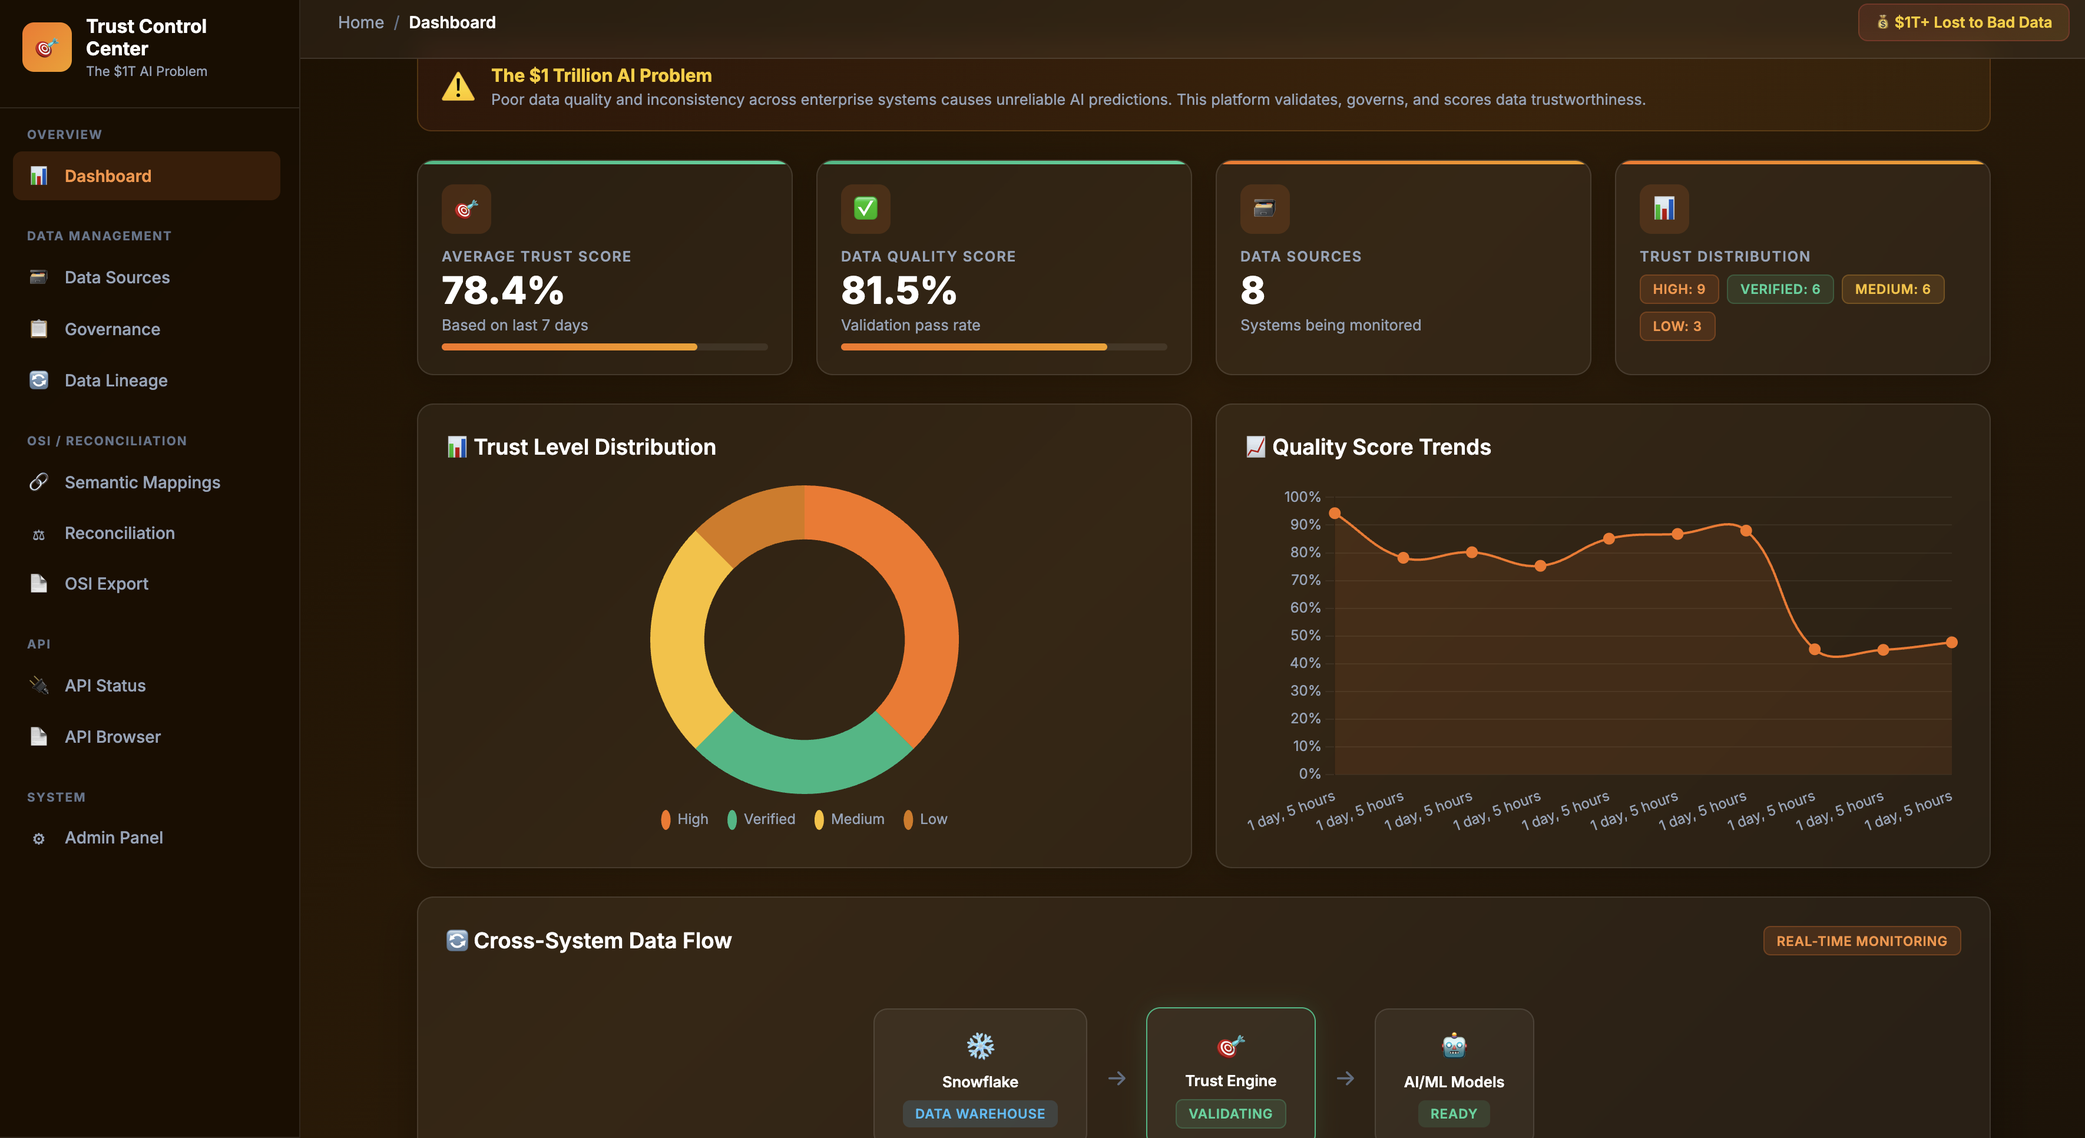
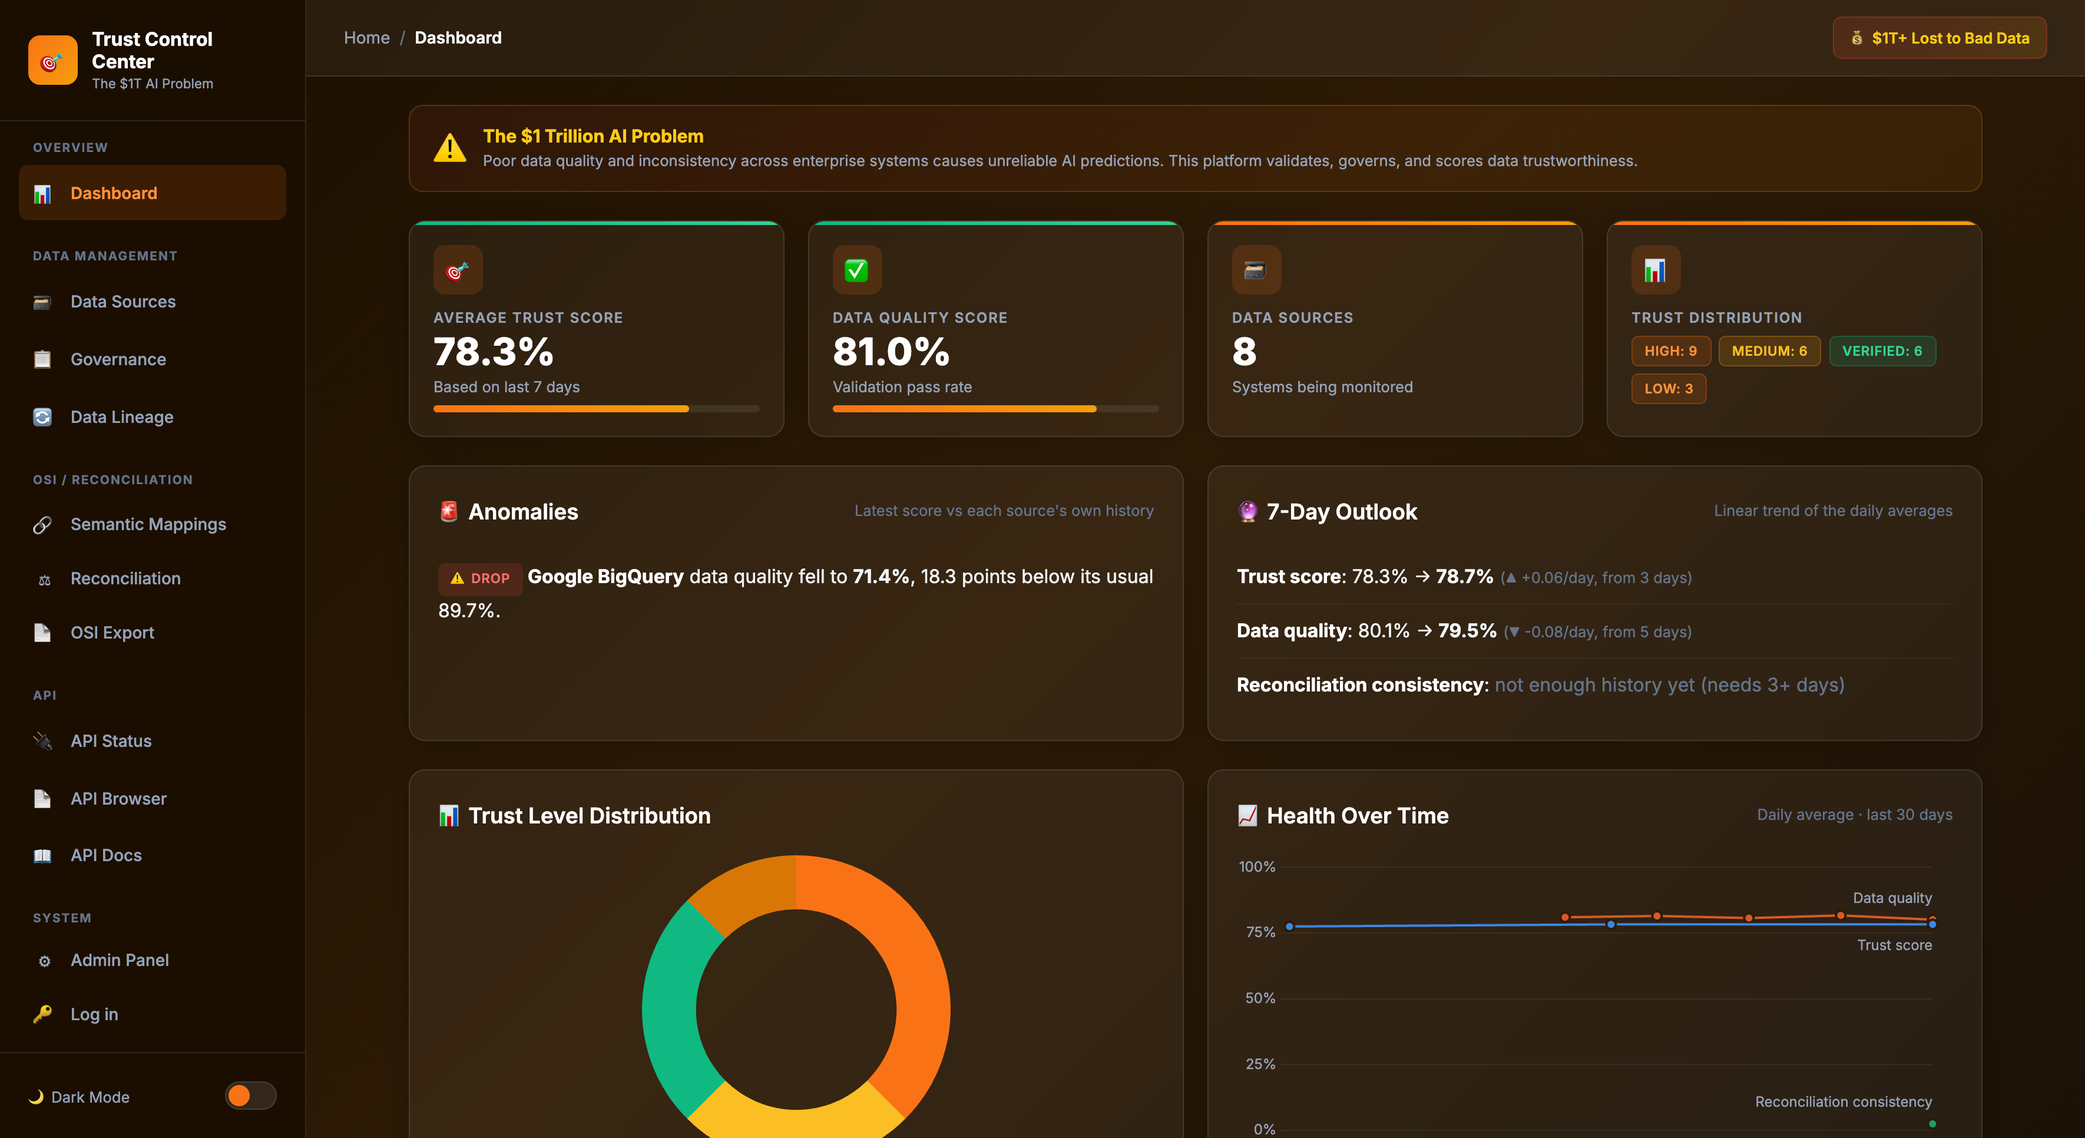
README: complete roadmap, document new features, refresh screenshot
All four phases done; live warehouse/BI connectors moved to Future with
the reason (they need real accounts to test). New sections for anomalies,
alerts, search/export/bulk import, monitoring; env var table; endpoints;
architecture diagram and project structure; new dashboard screenshot.

diff --git a/README.md b/README.md
@@ -82,38 +82,47 @@ flowchart LR
 
 ```mermaid
 flowchart TB
-    subgraph Frontend["Frontend Layer"]
-        TMPL["Django Templates<br/>Glassmorphic Dark/Light UI"]
-        CJS["Chart.js<br/>Interactive Visualizations"]
-        JS["JavaScript<br/>Theme Toggle, Sorting, Drag-Drop"]
+    subgraph Frontend["Frontend"]
+        TMPL["Django Templates<br/>Dark/Light UI, search & filters"]
+        CJS["Chart.js<br/>Health trend, distributions"]
     end
 
-    subgraph Backend["Backend Layer"]
-        DV["Django Views<br/>14 View Functions"]
-        DRF["Django REST Framework<br/>7 ViewSet Endpoints"]
-        RE["Reconciliation Engine<br/>SQL-Aware Formula Comparison (sqlglot)"]
-        TE["Trust Scoring Engine<br/>6-Dimension Analysis"]
-        DQV["Data Quality Validator<br/>CSV Upload and Rule Checks"]
-        OSI_EXP["OSI Export/Import<br/>Vendor-Neutral JSON"]
+    subgraph Backend["Django + DRF (gunicorn)"]
+        DV["Views & REST API<br/>token auth, roles, rate limits"]
+        RE["Reconciliation Engine<br/>SQL-aware diff (sqlglot)"]
+        INS["Insights<br/>anomalies, 7-day outlook"]
+        IMP["Importers<br/>dbt YAML, CSV, OSI"]
+        EXP["Exports<br/>CSV / Excel / Parquet"]
+        MON["/healthz & /metrics"]
     end
 
-    subgraph Data["Data Layer"]
-        DB["SQLite / PostgreSQL"]
-        MOD["7 Django Models"]
+    subgraph Async["Background"]
+        REDIS["Redis<br/>broker + shared cache"]
+        WORKER["Celery worker<br/>reconciliation runs"]
+        ALERT["Alerts<br/>webhook (Slack) / email"]
+    end
+
+    subgraph Data["Data"]
+        DB["PostgreSQL / SQLite"]
+    end
+
+    subgraph Ops["Monitoring (opt-in)"]
+        PROM["Prometheus"] --> GRAF["Grafana dashboard"]
     end
 
     TMPL --> DV
     CJS --> TMPL
-    JS --> TMPL
     DV --> RE
-    DV --> TE
-    DV --> DQV
-    DV --> OSI_EXP
-    DRF --> RE
-    DRF --> OSI_EXP
+    DV --> INS
+    DV --> IMP
+    DV --> EXP
+    DV --> REDIS
+    REDIS --> WORKER
+    WORKER --> RE
+    WORKER --> ALERT
+    RE --> DB
     DV --> DB
-    DRF --> DB
-    MOD --> DB
+    PROM --> MON
 ```
 
 ---
@@ -320,12 +329,34 @@ Ratio metrics are compared as `numerator / denominator`; derived, cumulative and
 - Null detection, type validation, range checks, uniqueness analysis
 - Historical validation tracking per data source
 
+### Anomaly Detection & 7-Day Outlook
+
+- Flags when a source's latest trust or quality score drops well below **its own** recent history (2σ, at least 5 points)
+- Projects each daily health series 7 days ahead from its least-squares trend
+- On the dashboard and at `/api/v1/insights/`
+
+### Alerts
+
+- Webhook (JSON with a Slack-compatible `text` field) and/or email when a validation fails, a score drop is detected, or a reconciliation finds critical divergences
+- Sent after the database commit by the background worker; delivery failures are logged and never break the action that caused them
+
+### Search, Filters, Export & Bulk Import
+
+- Search and filters on every list page (bookmarkable URLs) and `?search=` / `?ordering=` / field filters on every API endpoint
+- Download trust scores, validations, metrics, mappings and reconciliation findings as **CSV, Excel, or Parquet** (`/export/<dataset>.<format>`)
+- Bulk-import semantic mappings from CSV; the columns match the export, so you can export, edit in a spreadsheet, and upload back
+
+### Monitoring
+
+- `/healthz` (database + broker) for load balancers and uptime checks
+- `/metrics` in Prometheus format: request rate, latency, DB queries, plus trust, quality, consistency, and open divergences. Requires a bearer token
+- Optional Prometheus + Grafana stack with a provisioned dashboard (see [Docker](#docker))
+
 ### REST API
 
-- Full CRUD API for all entities via Django REST Framework
-- Browsable API at `/api/v1/`
-- Endpoints: data sources, governance metrics, semantic definitions, reconciliations, lineage, trust scores, validations
-- OSI export/import via API
+- Full CRUD API for all entities via Django REST Framework; Swagger UI at `/api/docs/`
+- Token auth, role-based write permissions, per-client rate limits (120/min anonymous, 600/min logged in)
+- Browsable API at `/api/v1/`; OSI export/import via API
 
 ---
 
@@ -333,12 +364,12 @@ Ratio metrics are compared as `numerator / denominator`; derived, cumulative and
 
 | Page | URL | Description |
 | ---- | --- | ----------- |
-| Dashboard | `/` | Overview with trust scores, 30-day health trend (trust, quality, consistency), reconciliation status, dimension analysis |
+| Dashboard | `/` | Trust and quality scores, anomalies, 7-day outlook, 30-day health trend, reconciliation status |
 | Data Sources | `/sources/` | All monitored systems with trust scores and validation history |
 | Governance | `/governance/` | Define canonical metrics (the single source of truth) |
 | Semantic Mappings | `/semantic/` | Map how metrics are implemented per source system |
 | Reconciliation | `/reconciliation/` | Run cross-source comparison, view divergences |
-| Reconciliation CSV | `/reconciliation/export.csv` | Latest run per metric, one row per divergence |
+| Exports | `/export/<dataset>.<csv\|xlsx\|parquet>` | trust-scores, validations, governance-metrics, semantic-definitions, reconciliation |
 | Data Lineage | `/lineage/` | Track data flows between systems |
 | OSI Export | `/osi/` | Export/import semantic model as vendor-neutral JSON |
 | API Browser | `/api/v1/` | Interactive REST API explorer |
@@ -425,24 +456,28 @@ python manage.py seed_data --flush
 ## Docker
 
 ```bash
-# Build and run
-docker-compose up --build
+# App + PostgreSQL + Redis + Celery worker
+DJANGO_SUPERUSER_USERNAME=admin DJANGO_SUPERUSER_PASSWORD=change-me docker compose up --build
 
-# Or standalone
-docker build -t trust-control-center .
-docker run -p 8000:8000 trust-control-center
+# Optional: add Prometheus (localhost:9090) and Grafana (localhost:3000, admin / $GRAFANA_PASSWORD)
+METRICS_TOKEN=$(openssl rand -hex 24) GRAFANA_PASSWORD=change-me \
+  docker compose -f docker-compose.yml -f docker-compose.monitoring.yml up --build
 ```
 
-`docker-compose` runs the app against **PostgreSQL 17** (data persists in the `pg-data` volume). Standalone `docker run` and local `runserver` use SQLite unless `DATABASE_URL` is set.
+`docker compose` runs **PostgreSQL 17**, **Redis**, the web app (gunicorn) and a **Celery worker**. Without Docker, local `runserver` uses SQLite and runs background tasks inline, so nothing else needs to be installed. Sample data is seeded only when the database is empty.
 
 | Variable | Purpose |
 | -------- | ------- |
 | `DATABASE_URL` | `postgres://user:pass@host:5432/dbname` (add `?sslmode=require` for managed Postgres). Unset = SQLite |
-| `POSTGRES_PASSWORD` | Password for the compose `db` service (default `trust` — change it outside local dev) |
+| `REDIS_URL` | Celery broker and shared cache. Unset = tasks run inline, per-process cache |
 | `DJANGO_SECRET_KEY` | Required for any real deployment |
 | `DJANGO_SUPERUSER_USERNAME` / `DJANGO_SUPERUSER_PASSWORD` | Create an admin login on startup |
-
-Sample data is seeded only when the database is empty, so restarts don't duplicate it.
+| `DJANGO_ALLOWED_HOSTS`, `DJANGO_NUM_PROXIES` | Host names; number of reverse proxies in front (for client IPs in rate limits and lockouts) |
+| `ALERT_WEBHOOK_URL`, `ALERT_EMAILS` | Alert destinations (Slack-compatible webhook; comma-separated emails) |
+| `EMAIL_HOST`, `EMAIL_PORT`, `EMAIL_HOST_USER`, `EMAIL_HOST_PASSWORD`, `DEFAULT_FROM_EMAIL` | SMTP for email alerts. Unset = printed to the console |
+| `API_RATE_ANON`, `API_RATE_USER` | API rate limits (default `120/min`, `600/min`) |
+| `METRICS_TOKEN` | Bearer token for `/metrics`. Unset = endpoint disabled |
+| `POSTGRES_PASSWORD`, `GRAFANA_PASSWORD` | Compose `db` password (default `trust`); Grafana admin password (required for monitoring) |
 
 ---
 
@@ -450,6 +485,8 @@ Sample data is seeded only when the database is empty, so restarts don't duplica
 
 | Endpoint | Methods | Description |
 | -------- | ------- | ----------- |
+| `/healthz` | GET | Database + broker health (200 / 503) |
+| `/metrics` | GET | Prometheus metrics (`Authorization: Bearer $METRICS_TOKEN`) |
 | `/api/` | GET | API health check |
 | `/api/auth/token/` | POST | Exchange username/password for an API token |
 | `/api/schema/` | GET | OpenAPI 3 schema (YAML) |
@@ -458,12 +495,15 @@ Sample data is seeded only when the database is empty, so restarts don't duplica
 | `/api/v1/governance-metrics/` | GET, POST, PUT, DELETE | Governance metric CRUD |
 | `/api/v1/semantic-definitions/` | GET, POST, PUT, DELETE | Semantic definition CRUD |
 | `/api/v1/reconciliations/` | GET | Reconciliation run history |
-| `/api/v1/reconciliations/run/` | POST | Trigger reconciliation |
+| `/api/v1/reconciliations/run/` | POST | Trigger reconciliation (202 + task id when a worker is configured) |
+| `/api/v1/insights/` | GET | Anomalies and 7-day outlook |
 | `/api/v1/lineage/` | GET, POST, PUT, DELETE | Data lineage CRUD |
 | `/api/v1/trust-scores/` | GET | Trust score history |
 | `/api/v1/validations/` | GET | Validation result history |
 | `/api/v1/governance-metrics/osi-export/` | GET | OSI spec export |
 | `/api/v1/governance-metrics/osi-import/` | POST | OSI spec import |
+
+Every list endpoint accepts `?search=`, `?ordering=` and field filters (for example `/api/v1/trust-scores/?trust_level=low&ordering=-overall_score`).
 
 ---
 
@@ -530,66 +570,43 @@ Unit test coverage includes:
 
 ```text
 ./
-├── trustsite/                  # Django project settings
-│   ├── settings.py             # Configuration (DRF, CORS, WhiteNoise, security)
-│   ├── urls.py                 # Root URL configuration
-│   └── wsgi.py
+├── trustsite/                  # Django project: settings, URLs, Celery app
 ├── core/                       # Main application
-│   ├── models.py               # 7 models (DataSource, GovernanceMetric, SemanticDefinition, etc.)
-│   ├── views.py                # 14 view functions
-│   ├── api_views.py            # DRF ViewSets (7 endpoints)
-│   ├── serializers.py          # DRF serializers
-│   ├── urls.py                 # URL routing + DRF router
-│   ├── admin.py                # Django admin configuration
+│   ├── models.py               # DataSource, GovernanceMetric, SemanticDefinition, ReconciliationRun, ...
+│   ├── views.py / api_views.py # Pages and DRF API
+│   ├── tasks.py                # Celery tasks (reconciliation, alert delivery)
+│   ├── alerts.py               # Webhook / email alerts from model signals
+│   ├── exports.py              # CSV / Excel / Parquet downloads
+│   ├── monitoring.py           # /healthz and /metrics
 │   ├── utils/
-│   │   ├── reconciliation.py   # Cross-source reconciliation engine
-│   │   ├── osi_export.py       # OSI-compatible JSON export/import
-│   │   ├── dbt_import.py       # dbt Semantic Layer YAML -> semantic mappings
-│   │   ├── trust_scoring.py    # 6-dimension trust scoring engine
-│   │   ├── data_quality_validator.py  # CSV quality validation
-│   │   └── data_governance.py  # Governance utilities
-│   ├── management/commands/
-│   │   ├── seed_data.py        # Populate realistic sample data
-│   │   ├── calc_trust.py       # Batch trust score calculation
-│   │   ├── validate_data.py    # CLI data validation
-│   │   └── export_governance.py
-│   └── tests/
-│       ├── test_models.py      # Model tests
-│       ├── test_views.py       # View tests
-│       ├── test_api.py         # API endpoint tests
-│       └── test_reconciliation.py  # Reconciliation, OSI, semantic tests
-├── templates/                  # Django templates (glassmorphic dark/light UI)
-│   ├── base.html               # Sidebar layout, theme toggle
-│   ├── dashboard.html          # Main dashboard with Chart.js
-│   ├── data_sources.html       # Source list with trust badges
-│   ├── governance_metrics.html # Metric definitions
-│   ├── semantic_definitions.html # Per-source mappings
-│   ├── reconciliation.html     # Cross-source comparison
-│   ├── lineage.html            # Data flow visualization
-│   └── osi_export.html         # OSI JSON export/import
-├── static/
-│   ├── css/main.css            # CSS with dark/light theme variables
-│   └── js/main.js              # Theme toggle, sortable tables, drag-drop
-├── examples/dbt_project/       # Sample dbt semantic layer for `import_dbt`
-├── Dockerfile                  # Python 3.11-slim with Gunicorn
-├── docker-compose.yml
-├── requirements.txt            # Django, DRF, drf-spectacular, sqlglot, CORS, WhiteNoise, Gunicorn, pandas
+│   │   ├── reconciliation.py   # SQL-aware cross-source comparison
+│   │   ├── insights.py         # Anomaly detection and outlook
+│   │   ├── dbt_import.py       # dbt Semantic Layer YAML -> mappings
+│   │   ├── bulk_import.py      # CSV -> mappings
+│   │   ├── osi_export.py       # OSI JSON export/import
+│   │   └── trust_scoring.py, data_quality_validator.py
+│   ├── management/commands/    # seed_data, import_dbt, calc_trust, validate_data, export_governance
+│   └── tests/                  # Unit and integration tests
+├── templates/, static/         # Dark/light UI
+├── monitoring/                 # Prometheus config, Grafana datasource + dashboard
+├── examples/dbt_project/       # Sample dbt semantic layer
 ├── scripts/e2e.py              # End-to-end checks against the running Docker stack
-├── .github/workflows/ci.yml   # GitHub Actions CI (unit tests on Postgres + SQLite, Docker e2e)
-└── README.md
+├── docker-compose.yml          # Postgres, Redis, web, worker
+├── docker-compose.monitoring.yml  # Optional Prometheus + Grafana
+└── .github/workflows/ci.yml    # Tests on Postgres + SQLite (Python 3.11/3.12), Docker e2e
 ```
 
 ---
 
 ## Tech Stack
 
-- **Backend**: Django 4.2+, Django REST Framework, sqlglot (formula parsing)
-- **Frontend**: Django Templates, Chart.js, CSS Variables (dark/light theming)
-- **Database**: SQLite (dev default), PostgreSQL via `DATABASE_URL` (docker-compose, prod; psycopg 3)
-- **Static Files**: WhiteNoise
-- **CORS**: django-cors-headers
-- **Containerization**: Docker, Gunicorn
-- **CI/CD**: GitHub Actions (Python 3.11/3.12 matrix, tests on Postgres and SQLite, docker-compose end-to-end checks)
+- **Backend**: Django, Django REST Framework, drf-spectacular, django-filter, sqlglot (formula parsing), pandas
+- **Async**: Celery + Redis
+- **Frontend**: Django Templates, Chart.js, CSS variables (dark/light)
+- **Database**: PostgreSQL (psycopg 3) or SQLite
+- **Security**: role-based permissions, token auth, rate limiting, django-axes login lockout
+- **Observability**: django-prometheus, Prometheus, Grafana
+- **Delivery**: Docker, gunicorn, WhiteNoise, GitHub Actions (unit tests on Postgres + SQLite, docker-compose end-to-end)
 
 ---
 
@@ -610,29 +627,30 @@ Learn more: [VentureBeat — The $1 Trillion AI Problem](https://venturebeat.com
 
 ## Roadmap
 
-### Phase 1 — Security & API Polish
-- [x] **Authentication** — Login required for all writes; anonymous users get read-only access (session + token auth for API)
-- [x] **Role-Based Access Control** — Admin / Editor / Viewer roles via Django groups and model permissions, token-based API auth
-- [x] **Swagger/OpenAPI Documentation** — Interactive API docs at `/api/docs/` using `drf-spectacular`, auto-generated schema from serializers
-- [ ] **API Rate Limiting & Throttling** — DRF throttling classes for public and authenticated endpoints
+### Phase 1 — Security & API Polish ✅
+- [x] **Authentication** — Login required for all writes; anonymous users get read-only access
+- [x] **Role-Based Access Control** — Admin / Editor / Viewer via Django groups and model permissions, API tokens
+- [x] **Swagger/OpenAPI Documentation** — `/api/docs/`, generated with drf-spectacular
+- [x] **API Rate Limiting** — Per-client limits for anonymous and logged-in users, plus login lockout (django-axes)
 
-### Phase 2 — Production Infrastructure
-- [x] **PostgreSQL Support** — `DATABASE_URL` config, docker-compose runs Postgres + Django, CI tests on both Postgres and SQLite
-- [ ] **Celery + Redis for Async Tasks** — Background job processing for reconciliation runs, trust score calculations, and bulk operations
-- [ ] **Real-Time Alerts & Notifications** — Webhook and email alerts when trust scores drop, reconciliation detects divergences, or validation fails
+### Phase 2 — Production Infrastructure ✅
+- [x] **PostgreSQL Support** — `DATABASE_URL`; CI tests on Postgres and SQLite
+- [x] **Celery + Redis** — Reconciliation runs and alert delivery in a background worker
+- [x] **Alerts & Notifications** — Webhook (Slack-compatible) and email on failed validations, score drops, critical divergences
 
-### Phase 3 — Analytics & Export
-- [x] **Historical Trend Analytics** — Dashboard "Health Over Time" chart: daily trust score, data quality, and reconciliation consistency (30 days, with table view)
-- [ ] **Anomaly Detection & Forecasting** — Flag sudden drops in quality metrics, project trends forward
-- [x] **CSV Export of Reconciliation Results** — `/reconciliation/export.csv`
-- [ ] **More Export Formats** — Trust scores and governance metrics as CSV / Excel / Parquet
-- [ ] **Bulk Import & Batch Operations** — Batch upload of semantic definitions, bulk reconciliation across all metrics
+### Phase 3 — Analytics & Export ✅
+- [x] **Historical Trend Analytics** — 30-day "Health Over Time" chart with table view
+- [x] **Anomaly Detection & Forecasting** — Per-source score-drop detection and a 7-day outlook
+- [x] **Export Formats** — CSV, Excel and Parquet for trust scores, validations, metrics, mappings, and findings
+- [x] **Bulk Import** — CSV import of semantic mappings (round-trips with the export); reconcile all metrics in one run
 
-### Phase 4 — UX & Usability
-- [ ] **Advanced Search & Filtering** — Full-text search across metrics, sources, and definitions; filter by trust level, divergence severity, source type
-- [x] **dbt Connector** — Import metric definitions from dbt Semantic Layer YAML (upload or `import_dbt`)
-- [ ] **More Connectors** — Live integrations with Snowflake, Tableau, Salesforce, and BigQuery for automatic semantic definition sync
-- [ ] **Monitoring & Observability Dashboard** — Prometheus metrics, health checks, uptime tracking, and integration with Grafana
+### Phase 4 — UX & Integrations ✅
+- [x] **Search & Filtering** — On every list page and API endpoint
+- [x] **dbt Connector** — Import metric definitions from dbt Semantic Layer YAML
+- [x] **Monitoring & Observability** — `/healthz`, Prometheus `/metrics`, provisioned Grafana dashboard
+
+### Future
+- [ ] **Live warehouse & BI connectors** — Sync definitions directly from Snowflake, BigQuery, Tableau, and Salesforce. Not built yet, because each needs a real account to test against; dbt YAML import covers the most common source of metric definitions today.
 
 ---
 
